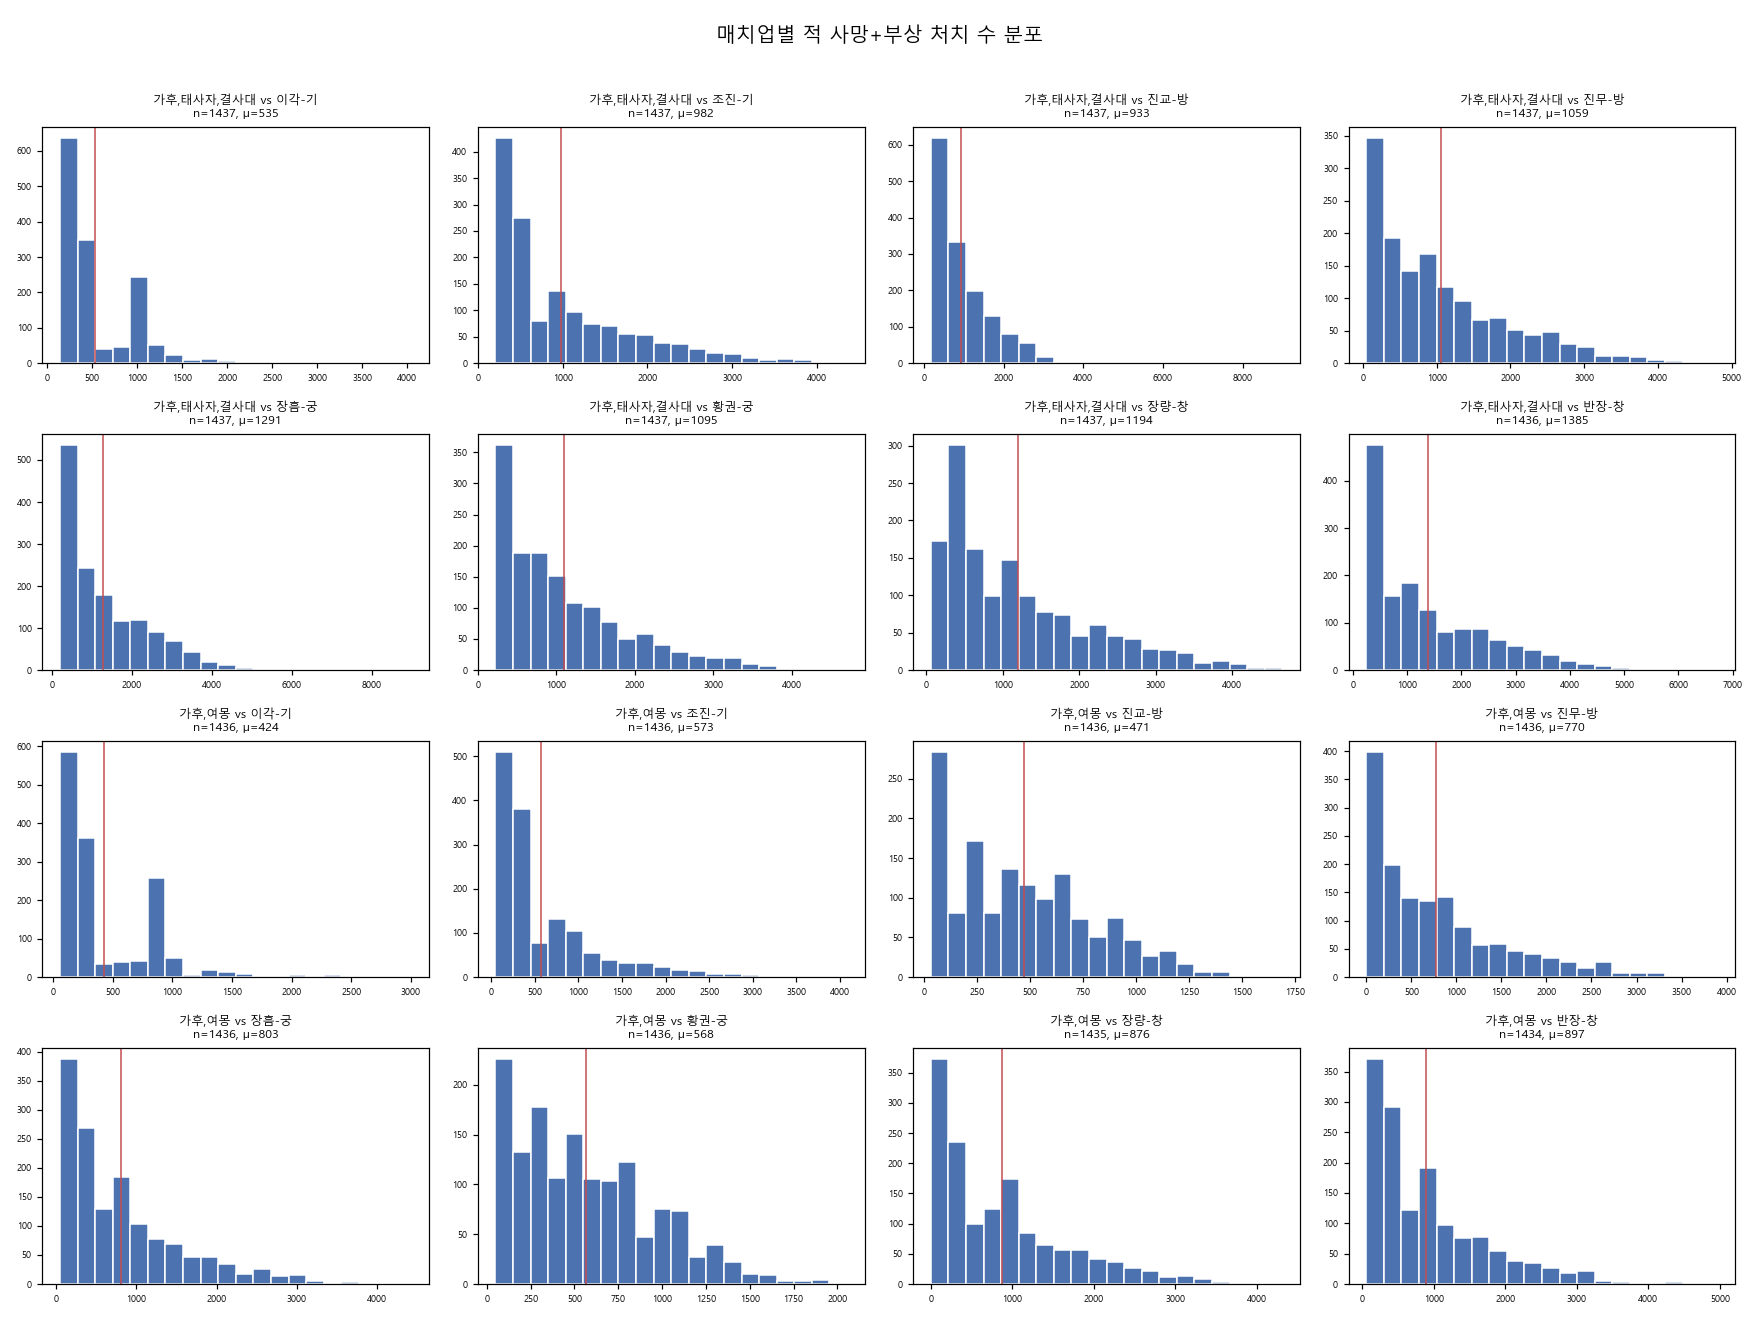
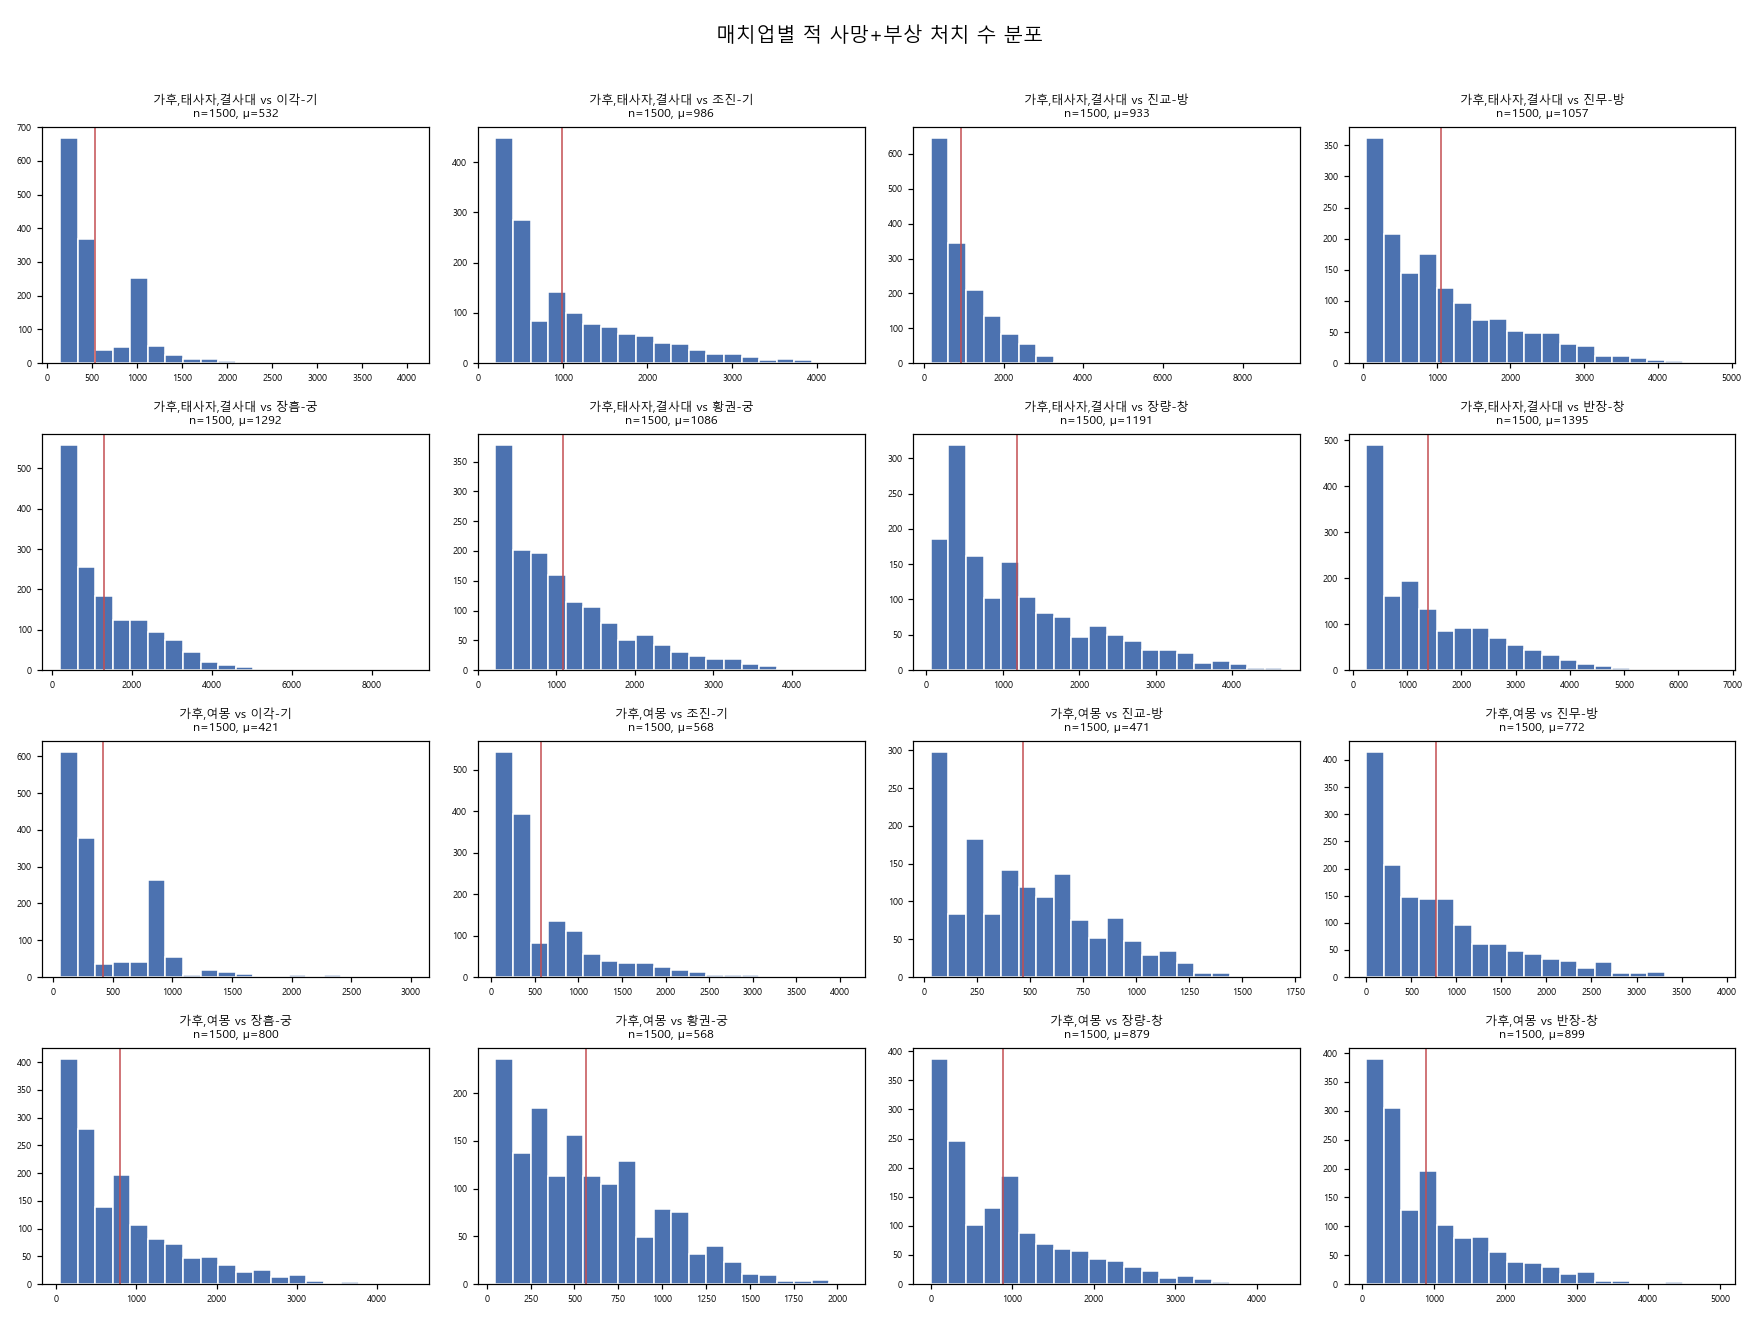
개척 정보 대시보드 최종 갱신 (폭탄덱 분산 24000/24000, n=1500 완료 반영)

diff --git a/simulator/index.html b/simulator/index.html
@@ -93,7 +93,7 @@ body{margin:0; background:var(--bg)}
   <h1>개척 정보</h1>
   <p>'그놈'이 심심해서 하나둘씩 만들고 있는 삼전 개척 관련 정보. <br>
   어디까지나 시뮬 기반이니 시뮬을 믿는다면 믿어도 좋음. '그놈'은 책임 없음.<br>
-  <strong style="color:#e05a4e">개척고수 사이트가 심하게 불안해서 시뮬레이션 결과가 느리게 나옵니다. 3시간 간격으로 업데이트중입니다.</strong><br>
+  시간이 부족해서 강하제/관악제 등 기타 개척덱은 계산하지 못했습니다.<br>
   문의사항 : <a href="https://open.kakao.com/o/s0Q12QLi" target="_blank" rel="noopener">https://open.kakao.com/o/s0Q12QLi</a></p>
 </div>
 <div id="wr-root">
@@ -6292,12 +6292,12 @@ body{margin:0; background:var(--bg)}
 </div>
 <div id="tab4-panel">
 <h2>폭탄덱 개별 전투 분산</h2>
-<h2>매치업별 통계 (적 사망+부상 처치 수 / 9,000 기준) — 1438회 기준</h2>
+<h2>매치업별 통계 (적 사망+부상 처치 수 / 9,000 기준) — 1500회 기준</h2>
 <div class="table-scroll"><table>
 <thead><tr><th>폭탄덱 \\ 상대덱</th><th>이각-기</th><th>조진-기</th><th>진교-방</th><th>진무-방</th><th>장흠-궁</th><th>황권-궁</th><th>장량-창</th><th>반장-창</th></tr></thead>
 <tbody>
-<tr><th class="rowh">가후,태사자,결사대</th><td>평균 : 535<br>표준편차 : 463<br>최소값 : 142<br>최대값 : 4049</td><td>평균 : 982<br>표준편차 : 814<br>최소값 : 201<br>최대값 : 4360</td><td>평균 : 933<br>표준편차 : 740<br>최소값 : 170<br>최대값 : 9000</td><td>평균 : 1059<br>표준편차 : 889<br>최소값 : 47<br>최대값 : 4812</td><td>평균 : 1291<br>표준편차 : 1046<br>최소값 : 203<br>최대값 : 9000</td><td>평균 : 1095<br>표준편차 : 804<br>최소값 : 223<br>최대값 : 4705</td><td>평균 : 1194<br>표준편차 : 952<br>최소값 : 60<br>최대값 : 4654</td><td>평균 : 1385<br>표준편차 : 1110<br>최소값 : 249<br>최대값 : 6725</td></tr>
-<tr><th class="rowh">가후,여몽</th><td>평균 : 424<br>표준편차 : 448<br>최소값 : 57<br>최대값 : 3007</td><td>평균 : 573<br>표준편차 : 604<br>최소값 : 47<br>최대값 : 4081</td><td>평균 : 471<br>표준편차 : 324<br>최소값 : 34<br>최대값 : 1691</td><td>평균 : 770<br>표준편차 : 738<br>최소값 : 0<br>최대값 : 3902</td><td>평균 : 803<br>표준편차 : 745<br>최소값 : 46<br>최대값 : 4432</td><td>평균 : 568<br>표준편차 : 386<br>최소값 : 49<br>최대값 : 2055</td><td>평균 : 876<br>표준편차 : 790<br>최소값 : 0<br>최대값 : 4313</td><td>평균 : 897<br>표준편차 : 815<br>최소값 : 58<br>최대값 : 4970</td></tr>
+<tr><th class="rowh">가후,태사자,결사대</th><td>평균 : 532<br>표준편차 : 460<br>최소값 : 142<br>최대값 : 4049</td><td>평균 : 986<br>표준편차 : 823<br>최소값 : 201<br>최대값 : 4360</td><td>평균 : 933<br>표준편차 : 740<br>최소값 : 170<br>최대값 : 9000</td><td>평균 : 1057<br>표준편차 : 890<br>최소값 : 47<br>최대값 : 4812</td><td>평균 : 1292<br>표준편차 : 1047<br>최소값 : 203<br>최대값 : 9000</td><td>평균 : 1086<br>표준편차 : 797<br>최소값 : 223<br>최대값 : 4705</td><td>평균 : 1191<br>표준편차 : 952<br>최소값 : 60<br>최대값 : 4654</td><td>평균 : 1395<br>표준편차 : 1110<br>최소값 : 249<br>최대값 : 6725</td></tr>
+<tr><th class="rowh">가후,여몽</th><td>평균 : 421<br>표준편차 : 445<br>최소값 : 57<br>최대값 : 3007</td><td>평균 : 568<br>표준편차 : 602<br>최소값 : 47<br>최대값 : 4081</td><td>평균 : 471<br>표준편차 : 324<br>최소값 : 34<br>최대값 : 1691</td><td>평균 : 772<br>표준편차 : 741<br>최소값 : 0<br>최대값 : 3902</td><td>평균 : 800<br>표준편차 : 742<br>최소값 : 46<br>최대값 : 4432</td><td>평균 : 568<br>표준편차 : 385<br>최소값 : 49<br>최대값 : 2055</td><td>평균 : 879<br>표준편차 : 790<br>최소값 : 0<br>최대값 : 4313</td><td>평균 : 899<br>표준편차 : 818<br>최소값 : 58<br>최대값 : 4970</td></tr>
 </tbody></table></div>
 <p>값 형식: 평균 / 표준편차 / 최소값 / 최대값 (적 사망+부상 처치 수 기준). 배치 평균이 아니라 실제 개별 전투 하나하나를 모은 값이라, 여기 나온 최소값~최대값 폭이 혼란 상태이상 등으로 인한 실전 변동폭을 그대로 보여줍니다.</p>
 <h2>매치업별 분포 그래프</h2>
